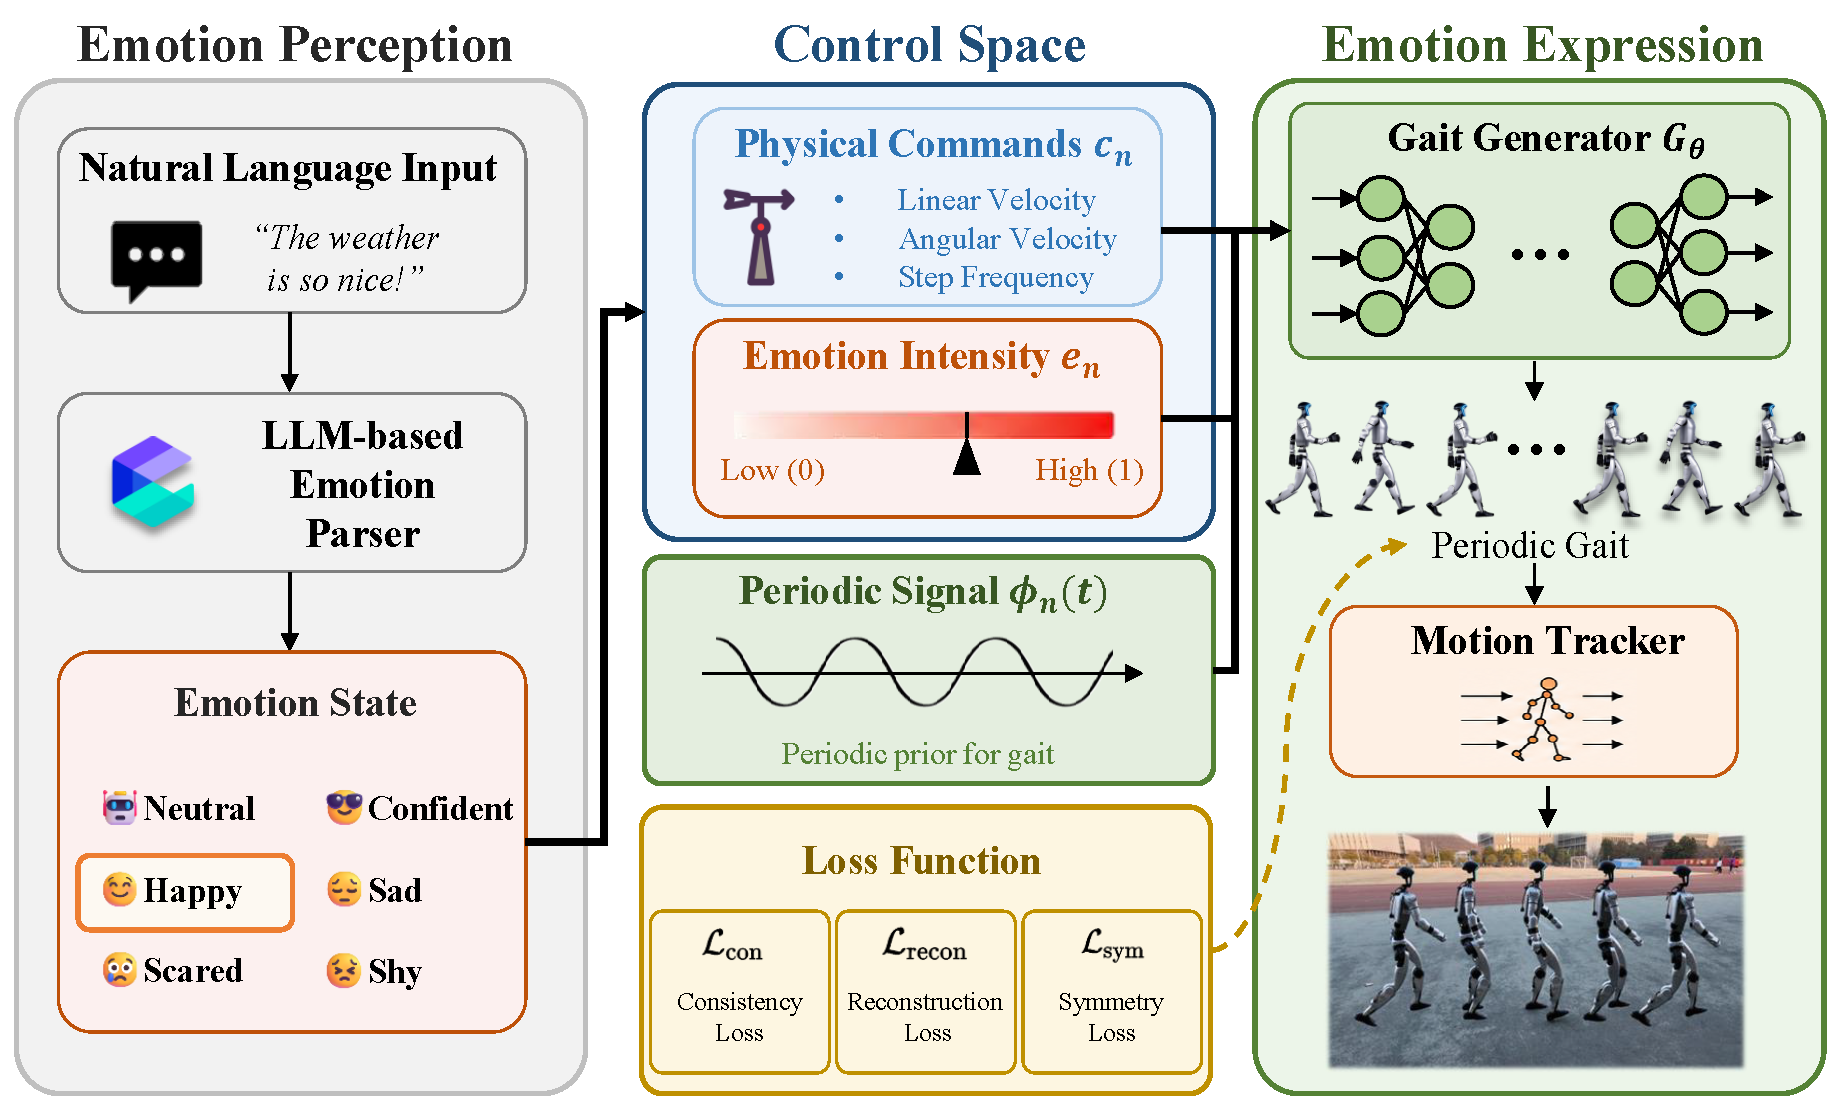
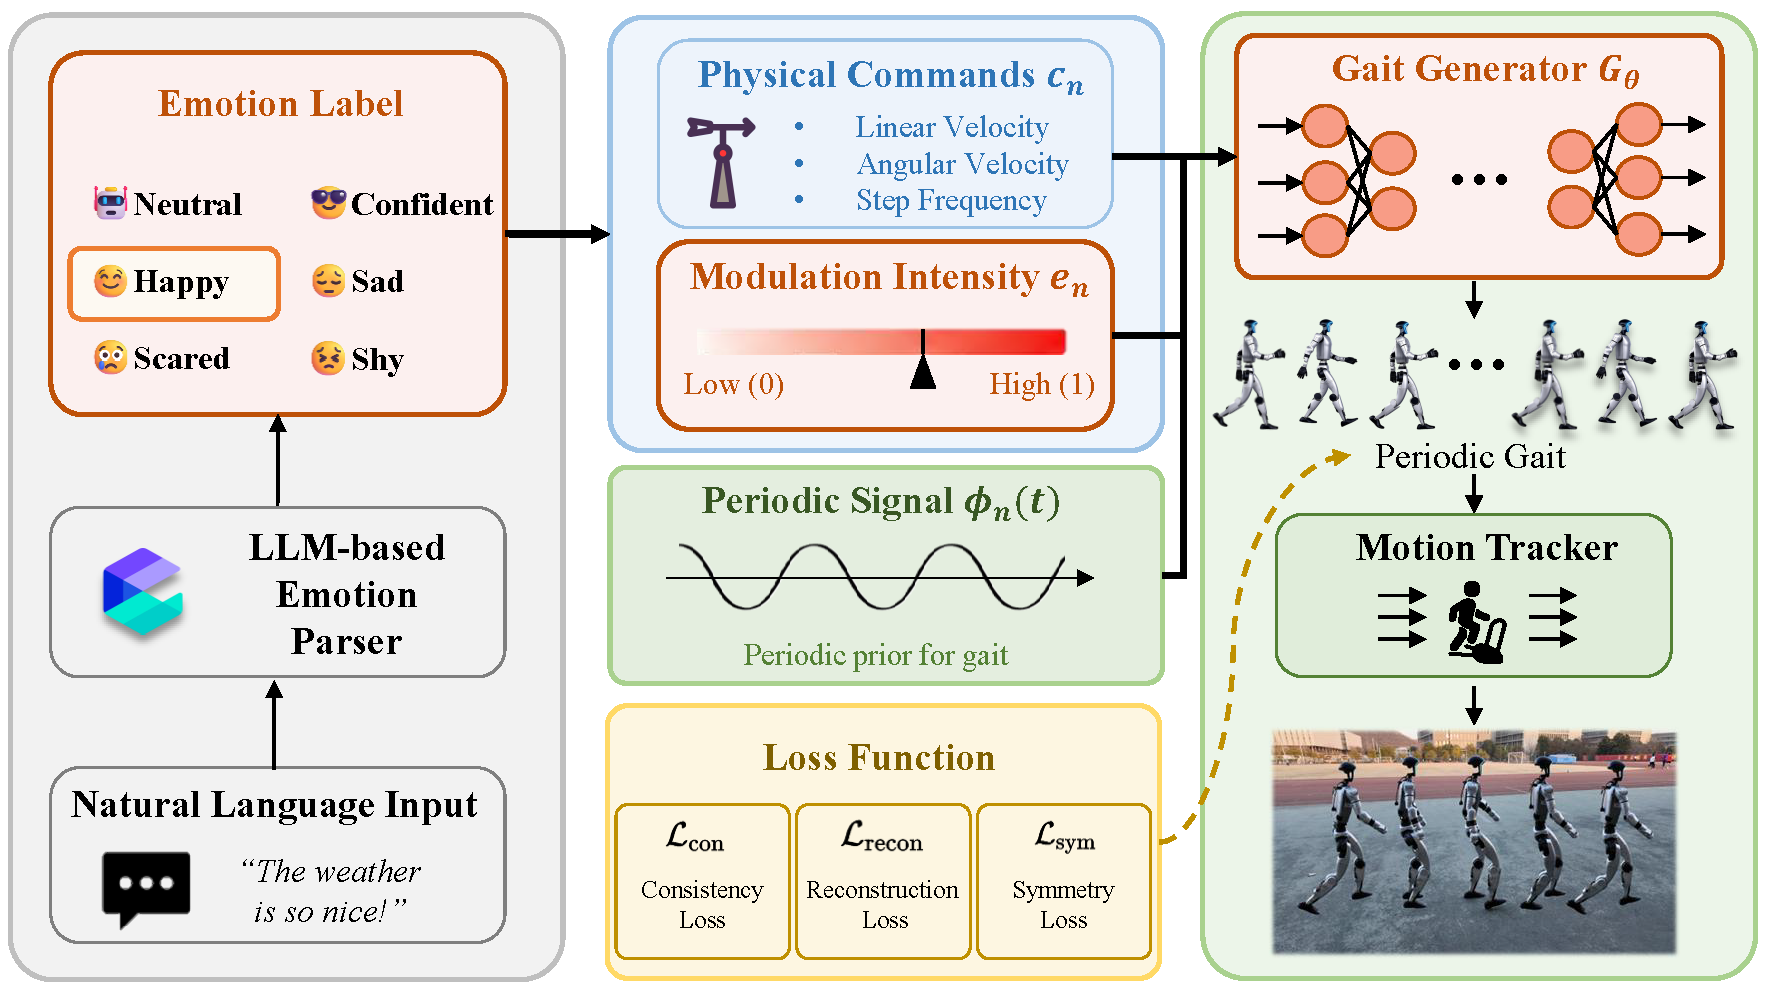
update png

diff --git a/index.html b/index.html
@@ -563,7 +563,7 @@
           <source src="videos/text_driven.mp4" type="video/mp4" />
         </video>
     </div>
-    <div class="vcap">Text-conditioned emotion-aware gait generation</div>
+    <div class="vcap">Language-driven emotional-style gait</div>
   </div>
 </section>
 
@@ -579,7 +579,7 @@
       <img src="images/framework.png" alt="Method diagram" loading="lazy" />
     </div>
     <div class="method-cap">
-      <strong>Figure 1.</strong> Overview of the EMoG framework. Textual inputs are analyzed to infer emotional states, which are mapped to interpretable gait physical and emotional parameters. Conditioned on these parameters, gait trajectories are generated and robustly tracked to produce stable and expressive humanoid locomotion.
+      <strong>Figure 1.</strong> EMoG centers on an emotional-style gait generator that takes a continuously emotional-style modulation code and separately specified physical commands as inputs, generating real-time whole-body periodic reference trajectories, which are executed on a humanoid by a downstream unified motion tracker. The framework also connects to an LLM-compatible language interface that parses emotional cues and motion instructions from text into style parameters and physical commands, enabling intuitive interaction while maintaining explicit control over gait style and physical commands.
     </div>
   </div>
 
